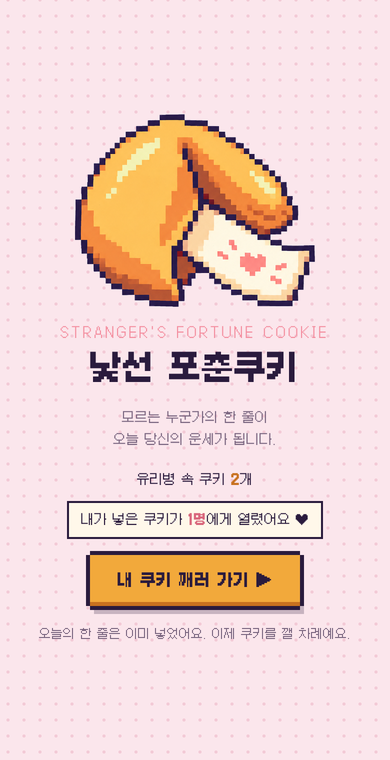
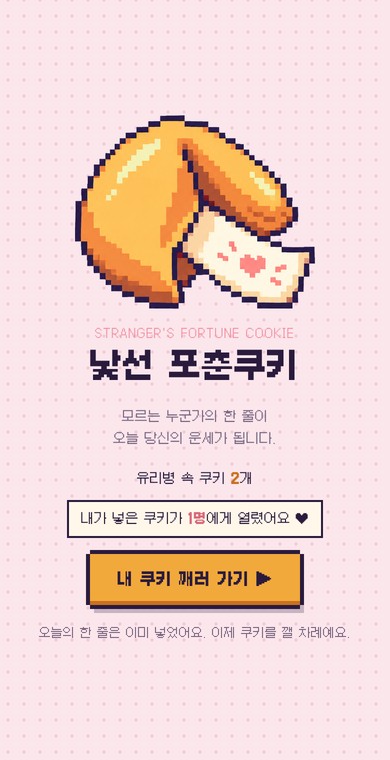
영문 라벨 크기를 한글 제목 너비 안으로 축소 (시작 화면·공유 카드)
Claude-Session: https://claude.ai/code/session_019H48sgWEPCeJ89SP3p48pL

diff --git a/index.html b/index.html
@@ -56,7 +56,7 @@ img{-webkit-touch-callout:none;-webkit-user-select:none;user-select:none;-webkit
 .steps i.on{background:var(--pink)}
 .label{font-size:11px;color:var(--muted);letter-spacing:.08em}
 h1{font-weight:700;font-size:33px;line-height:1.25;margin:0;letter-spacing:-.01em}
-h1 small{display:block;font-size:13px;font-weight:400;color:var(--pink);letter-spacing:.2em;margin-bottom:6px}
+h1 small{display:block;font-size:11px;font-weight:400;color:var(--pink);letter-spacing:.1em;margin-bottom:6px}
 h2{font-weight:700;font-size:22px;line-height:1.4;margin:0;text-wrap:balance}
 p{margin:0}
 .muted{color:var(--muted)}
@@ -446,7 +446,7 @@ textarea::placeholder{color:#B7A6BB}
     const F='"Galmuri11", monospace', INK='#2A1B3D';
     x.fillStyle='#FBE6EC'; x.fillRect(0,0,W,H);
     x.fillStyle='#F3CBD6'; for(let yy=20;yy<H;yy+=40) for(let xx=20;xx<W;xx+=40){ x.beginPath(); x.arc(xx,yy,4,0,7); x.fill(); }
-    x.textAlign='center'; x.fillStyle='#F48FA0'; x.font='400 30px '+F; x.fillText("STRANGER'S FORTUNE COOKIE",W/2,130);
+    x.textAlign='center'; x.fillStyle='#F48FA0'; x.font='400 28px '+F; x.fillText("STRANGER'S FORTUNE COOKIE",W/2,130);
     x.fillStyle=INK; x.font='700 72px '+F; x.fillText('낯선 포춘쿠키',W/2,215);
     const img=document.querySelector('.cookie-btn .broken');
     if(img && img.complete){ const iw=640, ih=iw*img.naturalHeight/img.naturalWidth; x.drawImage(img,(W-iw)/2,270,iw,ih); }
